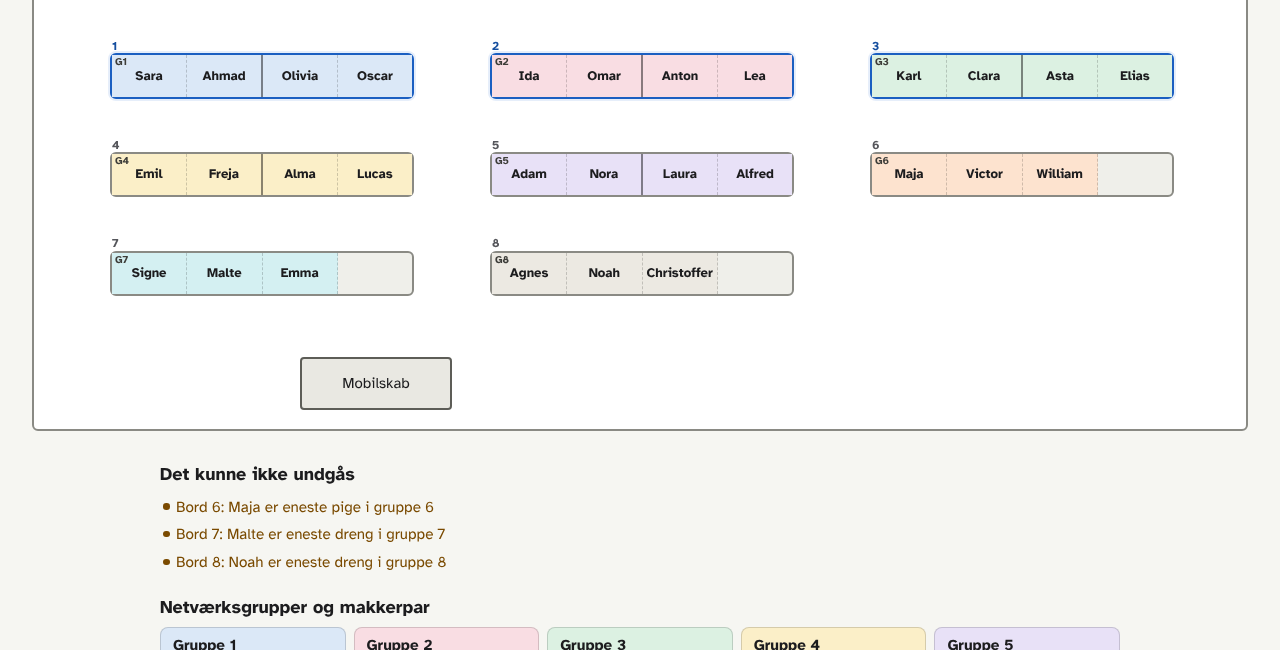
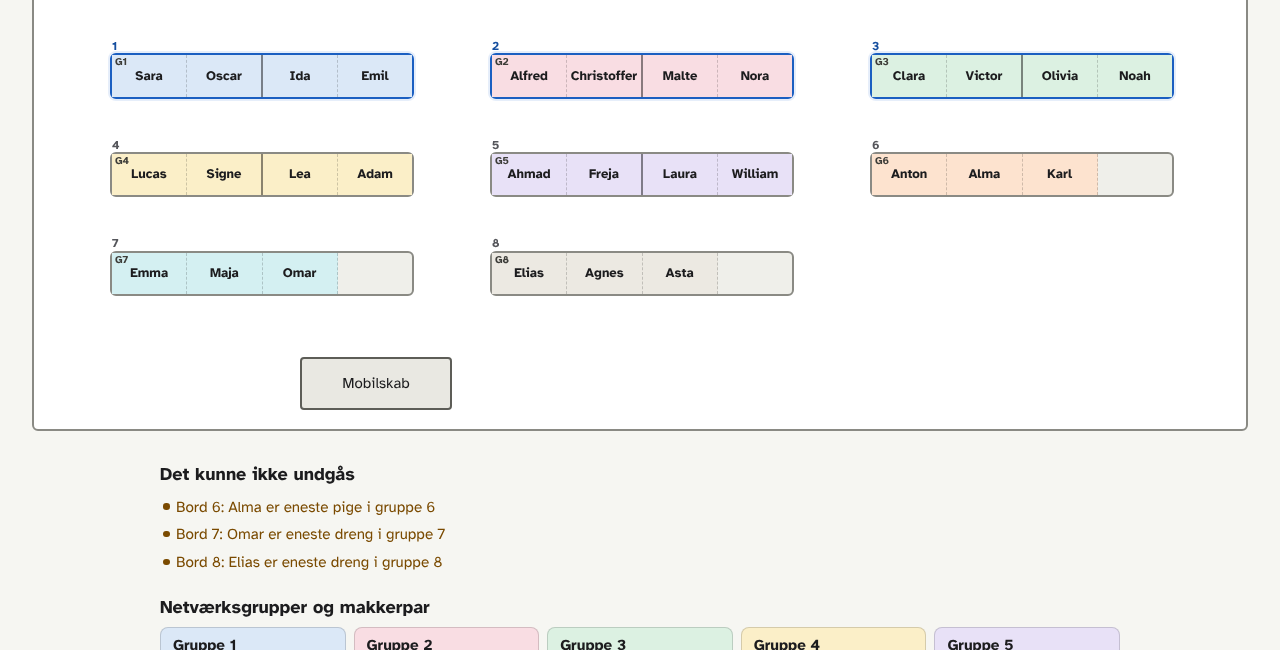
Træk et bord ind på en eksisterende række, også uden for gitteret
Lokaler fra en ældre version har rækker, der ikke står i gitteret, så et
trukket bord landede lige over eller under rækken. Nu vejer de rækker, der
allerede står borde i, tungere end gitteret.

Claude-Session: https://claude.ai/code/session_01Gtrsqyr9X7NCjmoLoHtqXE

diff --git a/src/core/lokale.test.ts b/src/core/lokale.test.ts
@@ -1,5 +1,5 @@
 import { describe, expect, it } from 'vitest';
-import { iGitter, retBordeneInd, kanSaettesSammen, saetSammenToOgTo, flytMobilskabFri, fraDybeBorde, fjernTomPlads, sugSammen, foreslaaIndstillinger, fraV1, lavLokale, normaliserLokale, sorterBorde, tilpasStoerrelse } from './lokale';
+import { bordPlacering, iGitter, retBordeneInd, kanSaettesSammen, saetSammenToOgTo, flytMobilskabFri, fraDybeBorde, fjernTomPlads, sugSammen, foreslaaIndstillinger, fraV1, lavLokale, normaliserLokale, sorterBorde, tilpasStoerrelse } from './lokale';
 import { bordRaekker, forresteBorde, staarSammen } from './model';
 
 describe('lavLokale', () => {
@@ -138,4 +138,15 @@ describe('fraV1', () => {
     expect(l.borde.map((b) => [b.id, b.x, b.y, b.pladser])).toEqual([['a', 1, 1.5, 2], ['b', 4, 2.8, 2]]);
     expect([...forresteBorde(l)]).toEqual(['a']);
   });
+});
+
+it('et trukket bord lander på en eksisterende række, selv om den ikke står i gitteret', () => {
+  const l = lavLokale({ antalBorde: 3, pladserPrBord: 2, bordePrRaekke: 3 });
+  const [a, b] = l.borde;
+  a!.y = 6;
+  // 6,0 ligger mellem gitterrækkerne 5,4 og 6,7; bordet skal ind på rækken ved 6,0.
+  expect(bordPlacering(l, b!.id, 4.2, 5.7)).toEqual({ x: 4, y: 6 });
+  expect(bordPlacering(l, b!.id, 4.2, 6.3)).toEqual({ x: 4, y: 6 });
+  // Langt fra andre borde bruges gitteret.
+  expect(bordPlacering(l, b!.id, 4.2, 9.2)).toEqual(iGitter(4.2, 9.2));
 });

diff --git a/src/core/lokale.ts b/src/core/lokale.ts
@@ -179,6 +179,24 @@ export function iGitter(x: number, y: number): { x: number; y: number } {
 }
 
 /**
+ * Hvor et bord lander, når det trækkes til (x, y). De rækker, der allerede
+ * står borde i, vejer tungere end gitteret: står rækkerne ikke præcis i
+ * gitteret (fx et lokale fra en ældre version), skal bordet stadig kunne
+ * sættes ind på rækken.
+ */
+export function bordPlacering(l: Lokale, bordId: string, x: number, y: number): { x: number; y: number } {
+  const g = iGitter(x, y);
+  const b = l.borde.find((d) => d.id === bordId);
+  let raekke: number | null = null;
+  for (const a of l.borde) {
+    if (a.id === bordId || a.lodret !== b?.lodret) continue;
+    const d = Math.abs(a.y - y);
+    if (d < RAEKKE_AFSTAND / 2 && (raekke === null || d < Math.abs(raekke - y))) raekke = a.y;
+  }
+  return { x: g.x, y: raekke ?? g.y };
+}
+
+/**
  * Retter bordene ind: borde (og borde, der står sammen) i samme række får
  * samme højde, rækkerne får samme afstand, og borde, der står næsten under
  * hinanden, rettes ind i samme kolonne.

diff --git a/src/ui/lokale/LokaleEditor.tsx b/src/ui/lokale/LokaleEditor.tsx
@@ -10,7 +10,7 @@ import {
   type SkabelonId,
   foreslaaIndstillinger,
   lavLokale,
-  iGitter,
+  bordPlacering,
   kanSaettesSammen,
   normaliserLokale,
   retBordeneInd,
@@ -261,7 +261,7 @@ function RumEditor(props: {
       const b = k.borde.find((x) => x.id === v.id);
       if (b) {
         // Bordene klikker fast til gitteret (hele pladser vandret, rækker lodret).
-        const g = iGitter(b.x + dx, b.y + dy);
+        const g = bordPlacering(k, b.id, b.x + dx, b.y + dy);
         b.x = g.x;
         b.y = g.y;
       }
